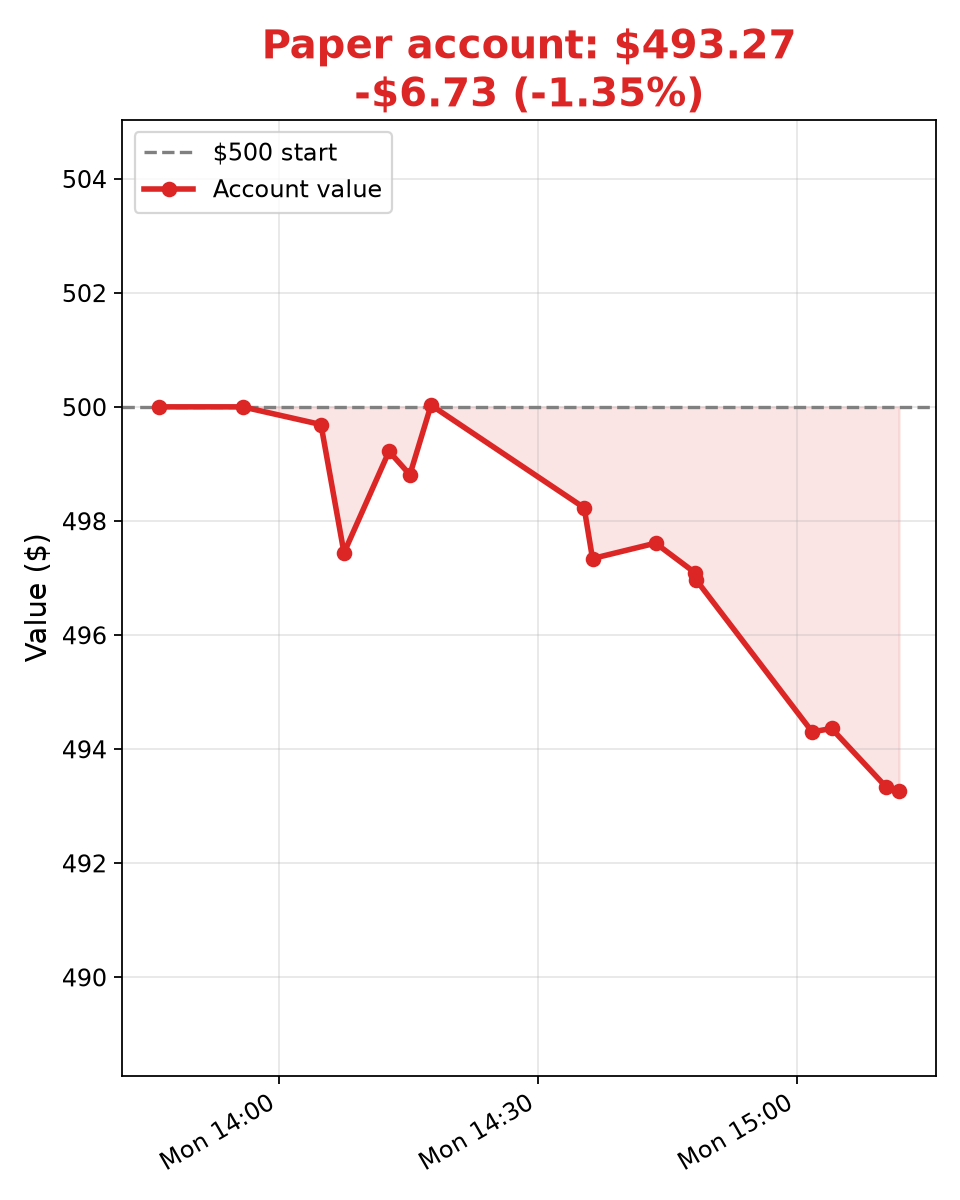
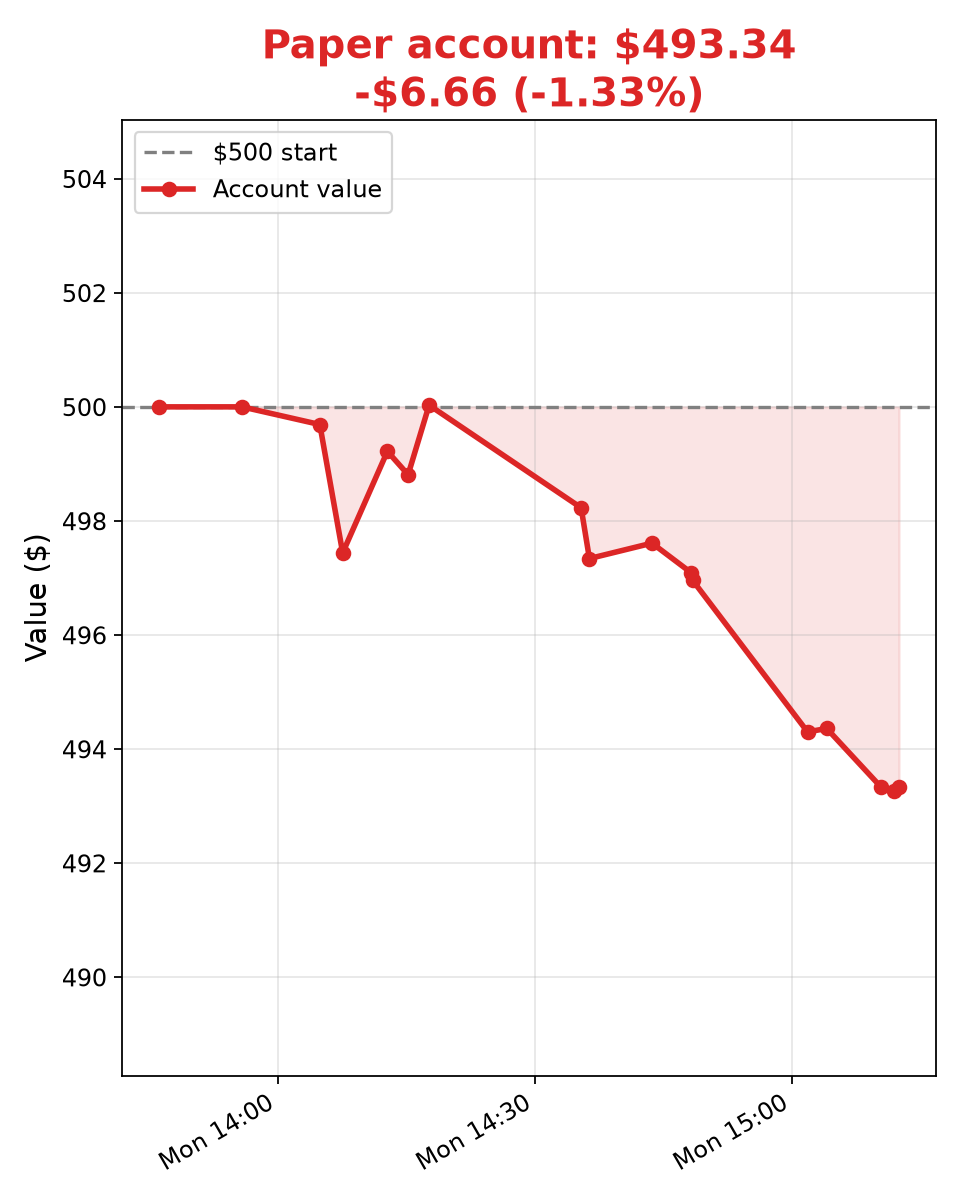
Update 2026-10-12T15:12:35Z

diff --git a/ledger.md b/ledger.md
@@ -38,3 +38,4 @@
 
 - 2026-10-12T15:10:22Z — total $493.33, cash $98.62 (Bot4 mark, no trade; FRO 58.39, DHT 25.765, ASTS 53.62 marked; no stops/targets hit)
 - 2026-10-12T15:11:50Z — total $493.27, cash $98.62 (Bot2 mark, no trade; FRO 58.37, DHT 25.75, ASTS 53.66 marked; no stops/targets hit)
+- 2026-10-12T15:12:27Z — total $493.34, cash $98.62 (Jr mark, no trade; FRO 58.36, DHT 25.765, ASTS 53.666 marked; no stops/targets hit)
